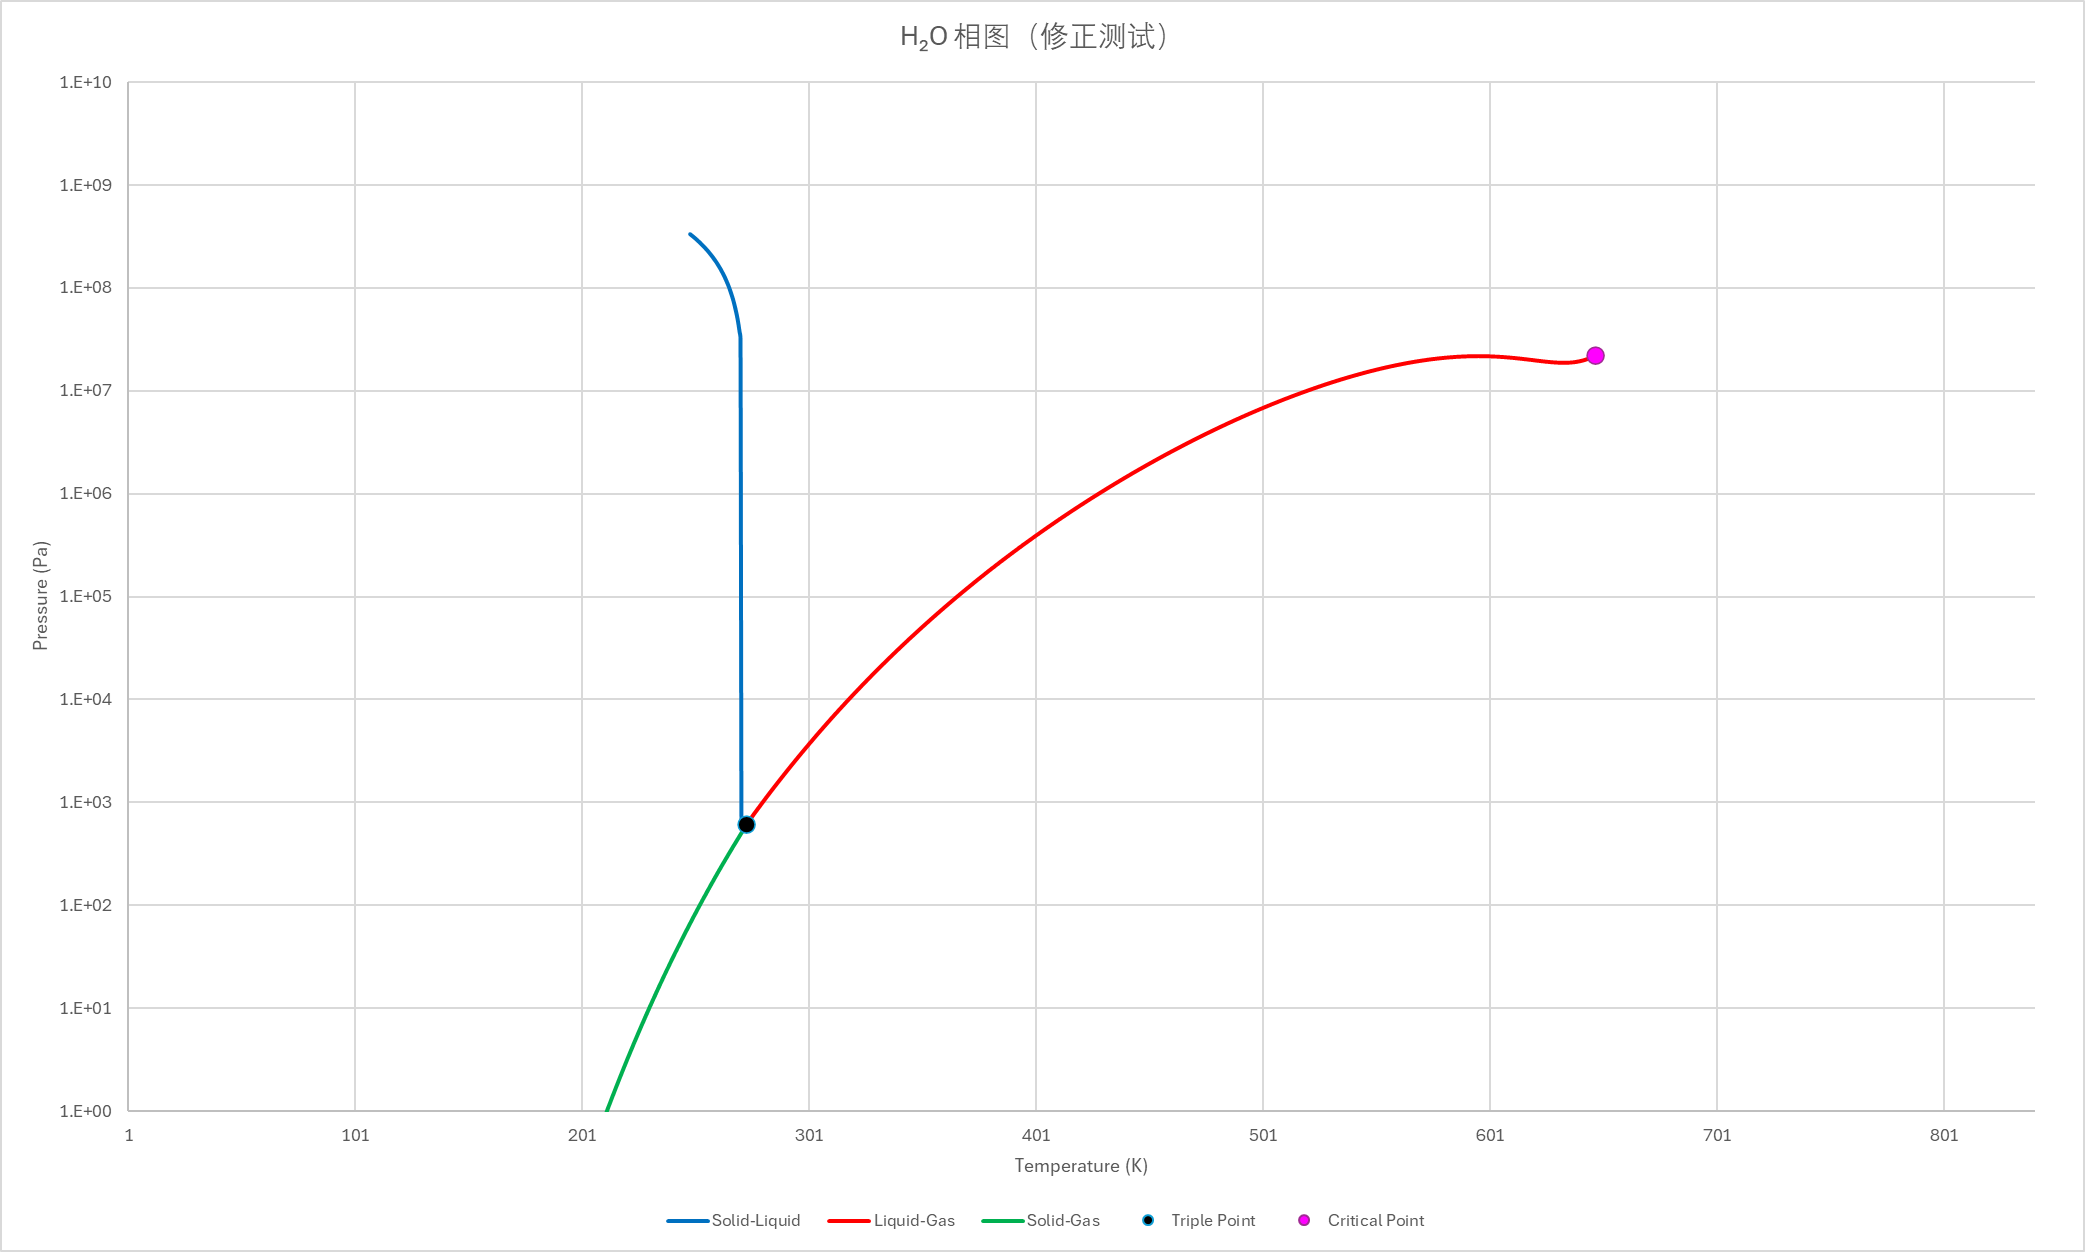
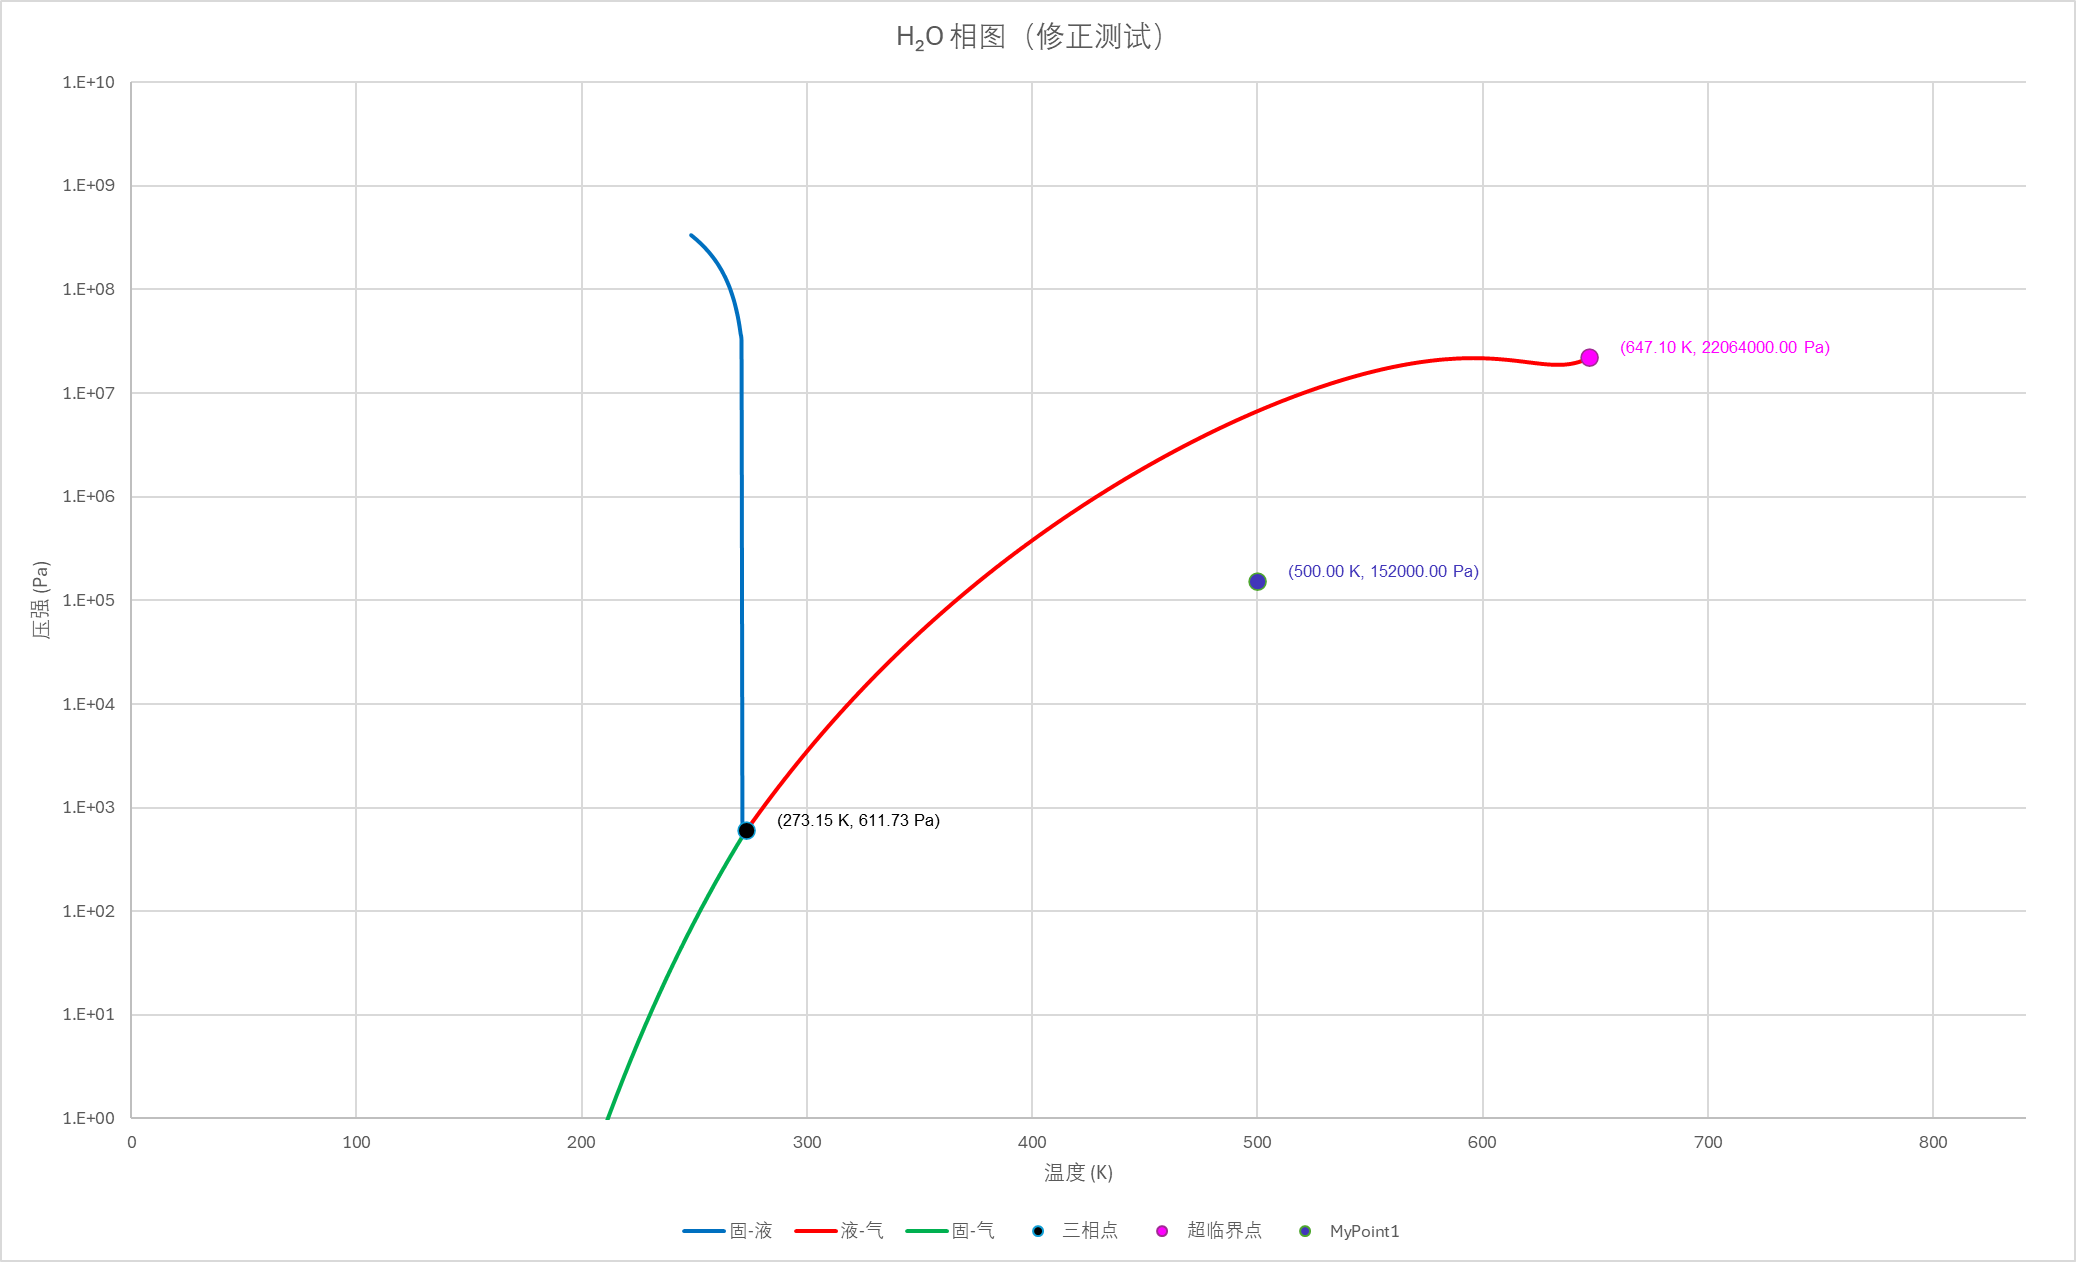
Site updated: 2025-06-15 08:46:24

diff --git a/2025/04/29/相图计算器v1.1/index.html b/2025/04/29/相图计算器v1.1/index.html
@@ -106,6 +106,11 @@
             <time  class="article-date" datetime="2025-04-29T15:12:44.712Z" itemprop="datePublished">2025-04-29</time>
           </h2>
           
+            <h2 class="last-time">
+              <span>最后更新于</span>
+              <time  class="article-updated" datetime="2025-06-15T00:45:46.671Z" itemprop="dateUpdated">2025-06-15</time>
+            </h2>
+          
           
           <ul class="wrap-list dark">
   
@@ -139,8 +144,9 @@
       
       <section class="article-entry markdown-body layout-margin content-padding--large soft-size--large soft-style--box">
         <p><img src="\src\post\25-4-29\xt\cover.png" alt=""></p>
-<h1 id="相图计算器-v1-0版本发布"><a href="#相图计算器-v1-0版本发布" class="headerlink" title="相图计算器 v1.0版本发布"></a>相图计算器 v1.0版本发布</h1><p><img src="\src\post\25-4-29\xt\ts.png" alt=""></p>
+<h1 id="相图计算器-v1-1版本发布"><a href="#相图计算器-v1-1版本发布" class="headerlink" title="相图计算器 v1.1版本发布"></a>相图计算器 v1.1版本发布</h1><p><img src="\src\post\25-4-29\xt\ts.png" alt=""></p>
 <p><img src="\src\post\25-4-29\xt\1.png" alt=""></p>
+<p><img src="\src\post\25-4-29\xt\2.png" alt=""></p>
 <p><strong><a href="\src\post\25-4-29\xt\相图计算器 v1.1.xlsm">下载链接</a></strong></p>
 <p>详细见 <a target="_blank" rel="noopener" href="https://github.com/GuanBY114514/PhaseCalculator">github</a></p>
 

diff --git a/categories/化学/index.html b/categories/化学/index.html
@@ -131,6 +131,11 @@
               <time  class="article-date" datetime="2025-04-29T15:12:44.712Z" itemprop="datePublished">2025-04-29</time>
             </div>
             
+              <div class="last-time">
+                <span>更新于</span>
+                <time  class="article-updated" datetime="2025-06-15T00:45:46.671Z" itemprop="dateUpdated">2025-06-15</time>
+              </div>
+            
             <ul class="wrap-list light">
   
     <li><a href="/categories/%E5%8C%96%E5%AD%A6/">📒 化学</a></li>

diff --git a/index.html b/index.html
@@ -132,6 +132,11 @@
               <time  class="article-date" datetime="2025-04-29T15:12:44.712Z" itemprop="datePublished">2025-04-29</time>
             </div>
             
+              <div class="last-time">
+                <span>更新于</span>
+                <time  class="article-updated" datetime="2025-06-15T00:45:46.671Z" itemprop="dateUpdated">2025-06-15</time>
+              </div>
+            
             <ul class="wrap-list light">
   
     <li><a href="/categories/%E5%8C%96%E5%AD%A6/">📒 化学</a></li>

diff --git a/tags/相图/index.html b/tags/相图/index.html
@@ -130,6 +130,11 @@
               <time  class="article-date" datetime="2025-04-29T15:12:44.712Z" itemprop="datePublished">2025-04-29</time>
             </div>
             
+              <div class="last-time">
+                <span>更新于</span>
+                <time  class="article-updated" datetime="2025-06-15T00:45:46.671Z" itemprop="dateUpdated">2025-06-15</time>
+              </div>
+            
             <ul class="wrap-list light">
   
     <li><a href="/categories/%E5%8C%96%E5%AD%A6/">📒 化学</a></li>
